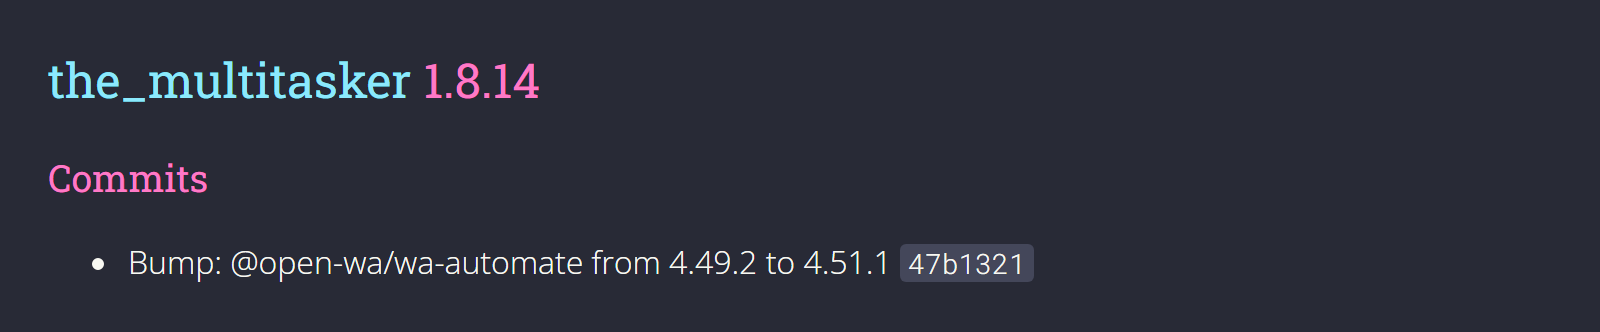
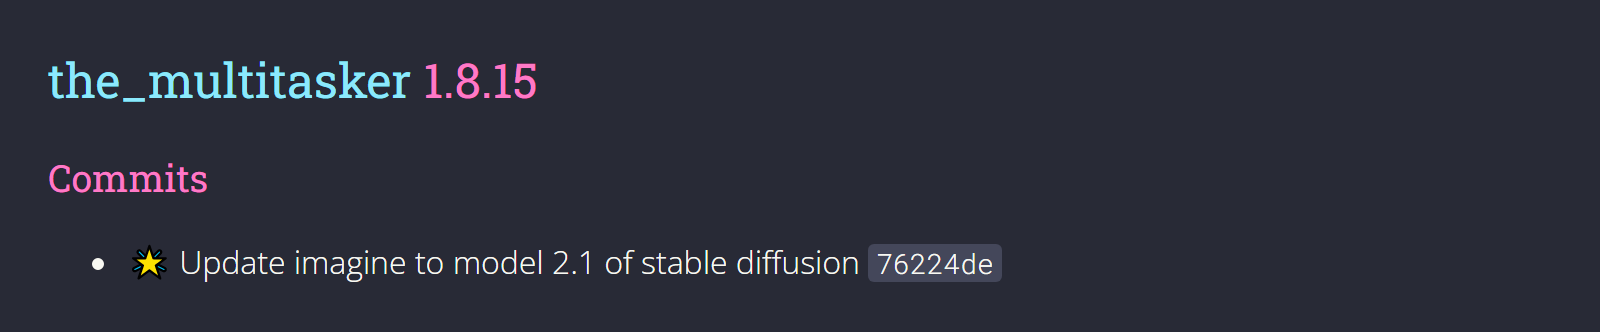
Release 1.8.15

Changed region(s): [[0.0625, 0.7229, 0.6562, 0.8735], [0.3125, 0.1807, 0.3438, 0.3012]]

diff --git a/CHANGELOG.md b/CHANGELOG.md
@@ -7,7 +7,17 @@ and this project adheres to [Semantic Versioning](https://semver.org/spec/v2.0.0
 
 Generated by [`auto-changelog`](https://github.com/CookPete/auto-changelog).
 
-## [1.8.14](https://github.com/eyalmichon/TheMultitasker/compare/1.8.13...1.8.14)
+## [1.8.15](https://github.com/eyalmichon/TheMultitasker/compare/1.8.14...1.8.15)
+
+
+
+
+### Commits
+
+- 🌟 Update imagine to model 2.1 of stable diffusion [`76224de`](https://github.com/eyalmichon/TheMultitasker/commit/76224ded191f556ccf2bc05cd486eec1c50bfbe2)
+
+
+## [1.8.14](https://github.com/eyalmichon/TheMultitasker/compare/1.8.13...1.8.14) - 2022-11-25
 
 
 
@@ -15,6 +25,7 @@ Generated by [`auto-changelog`](https://github.com/CookPete/auto-changelog).
 ### Commits
 
 - Bump: @open-wa/wa-automate from 4.49.2 to 4.51.1 [`47b1321`](https://github.com/eyalmichon/TheMultitasker/commit/47b1321b3ce619f38537b1713b9bd08c2f0a0825)
+- Release 1.8.14 [`d516ec5`](https://github.com/eyalmichon/TheMultitasker/commit/d516ec5b98dcd139c888895dd08ce5e98ec9c4c4)
 
 
 ## [1.8.13](https://github.com/eyalmichon/TheMultitasker/compare/1.8.12...1.8.13) - 2022-11-14
